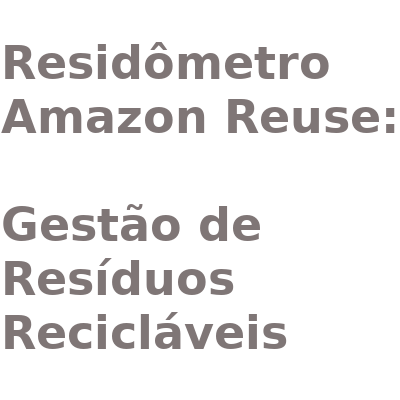
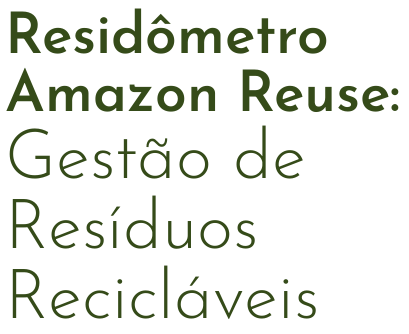
Melhorias no design e cores

Changed region(s): [[0.0, 0.0299, 0.99, 0.3593], [0.0, 0.3593, 0.75, 0.7485], [0.0, 0.7784, 0.78, 0.9581]]

diff --git a/css/style.css b/css/style.css
@@ -16,7 +16,7 @@
   /* Light theme  */
   --accent: #CF8D61; /* Hover color */
 /*  --bg: #f5f5f5;  Background color */
-  --bg: #F0E6CE; /* Background color */
+  --bg: #C2C274; /* Background color */
   --sbg: #e4e6e6; /* Cards color */
   --fg: #3a3a3a; /* Foreground color */
   --tp: rgba(0, 0, 0, 0); 
@@ -41,7 +41,7 @@
 .darktheme {
   --accent: #86502B; /* Hover color */
 /*  --bg: #19171a;  Background color */
-  --bg: rgb(10 19 3); /* Background color */
+  --bg: #11110A; /* Background color */
   --sbg: #201e21; /* Cards color */
   --fg: #d8dee9; /* Foreground color */
   --tp: rgba(0, 0, 0, 0.0); 

diff --git a/js/mainChart.js b/js/mainChart.js
@@ -34,12 +34,11 @@ const myChart = new Chart(ctx, {
         'rgba(98, 112, 102, 1)'
       ],
       borderColor: [
-        'rgba(143, 139, 139, 1)',
-        'rgba(143, 139, 139, 1)',
-        'rgba(143, 139, 139, 1)',
-        'rgba(143, 139, 139, 1)',
-        'rgba(143, 139, 139, 1)'
-      ],
+        'rgba(40, 40, 24, 0.8)',
+        'rgba(40, 40, 24, 0.8)',
+        'rgba(40, 40, 24, 0.8)',
+        'rgba(40, 40, 24, 0.8)',
+        'rgba(40, 40, 24, 0.8)',      ],
       borderWidth: 1
     }]
   },
